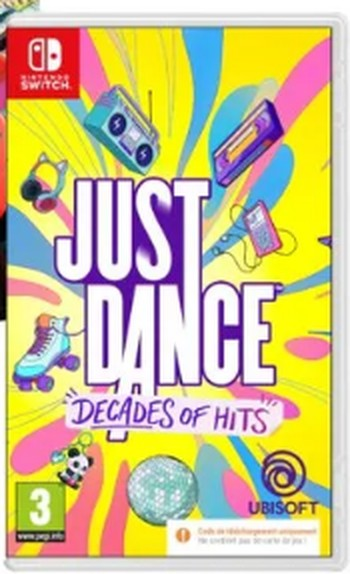
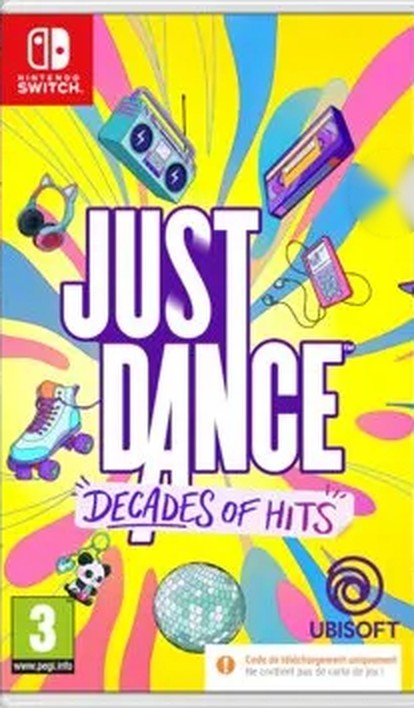
Jaquette Just Dance plus propre
Claude-Session: https://claude.ai/code/session_01PmcFZsYmFix9k7GoFLH8YZ

diff --git a/index.html b/index.html
@@ -635,7 +635,7 @@ html.intro .hero .purpose{animation:riseIn .7s .7s ease-out both}
         <div class="mega-rays" aria-hidden="true"></div>
         <img class="jc jc-l" src="img/joycon-l.png" alt="" aria-hidden="true">
         <img class="jc jc-r" src="img/joycon-r.png" alt="" aria-hidden="true">
-        <div class="mega-media"><img class="mega-game" src="img/mario-kart-8.jpg" alt="Jeu Mario Kart 8 Deluxe inclus" width="360" height="587"><img class="mega-game mega-game2" src="img/just-dance.jpg" alt="Jeu Just Dance Decades of Hits inclus" width="350" height="574"><img class="mega-box" src="img/switch-pack.png" alt="Pack Nintendo Switch avec Mario Kart 8 Deluxe, Joy-Con bleu et rouge néon" width="691" height="575"></div>
+        <div class="mega-media"><img class="mega-game" src="img/mario-kart-8.jpg" alt="Jeu Mario Kart 8 Deluxe inclus" width="360" height="587"><img class="mega-game mega-game2" src="img/just-dance.jpg?v=2" alt="Jeu Just Dance Decades of Hits inclus" width="350" height="574"><img class="mega-box" src="img/switch-pack.png" alt="Pack Nintendo Switch avec Mario Kart 8 Deluxe, Joy-Con bleu et rouge néon" width="691" height="575"></div>
         <div class="mega-text">
           <span class="mega-tag">Méga lot</span>
           <h3>Nintendo Switch <span>+ Mario Kart 8 Deluxe<br>+ Just Dance</span></h3>
